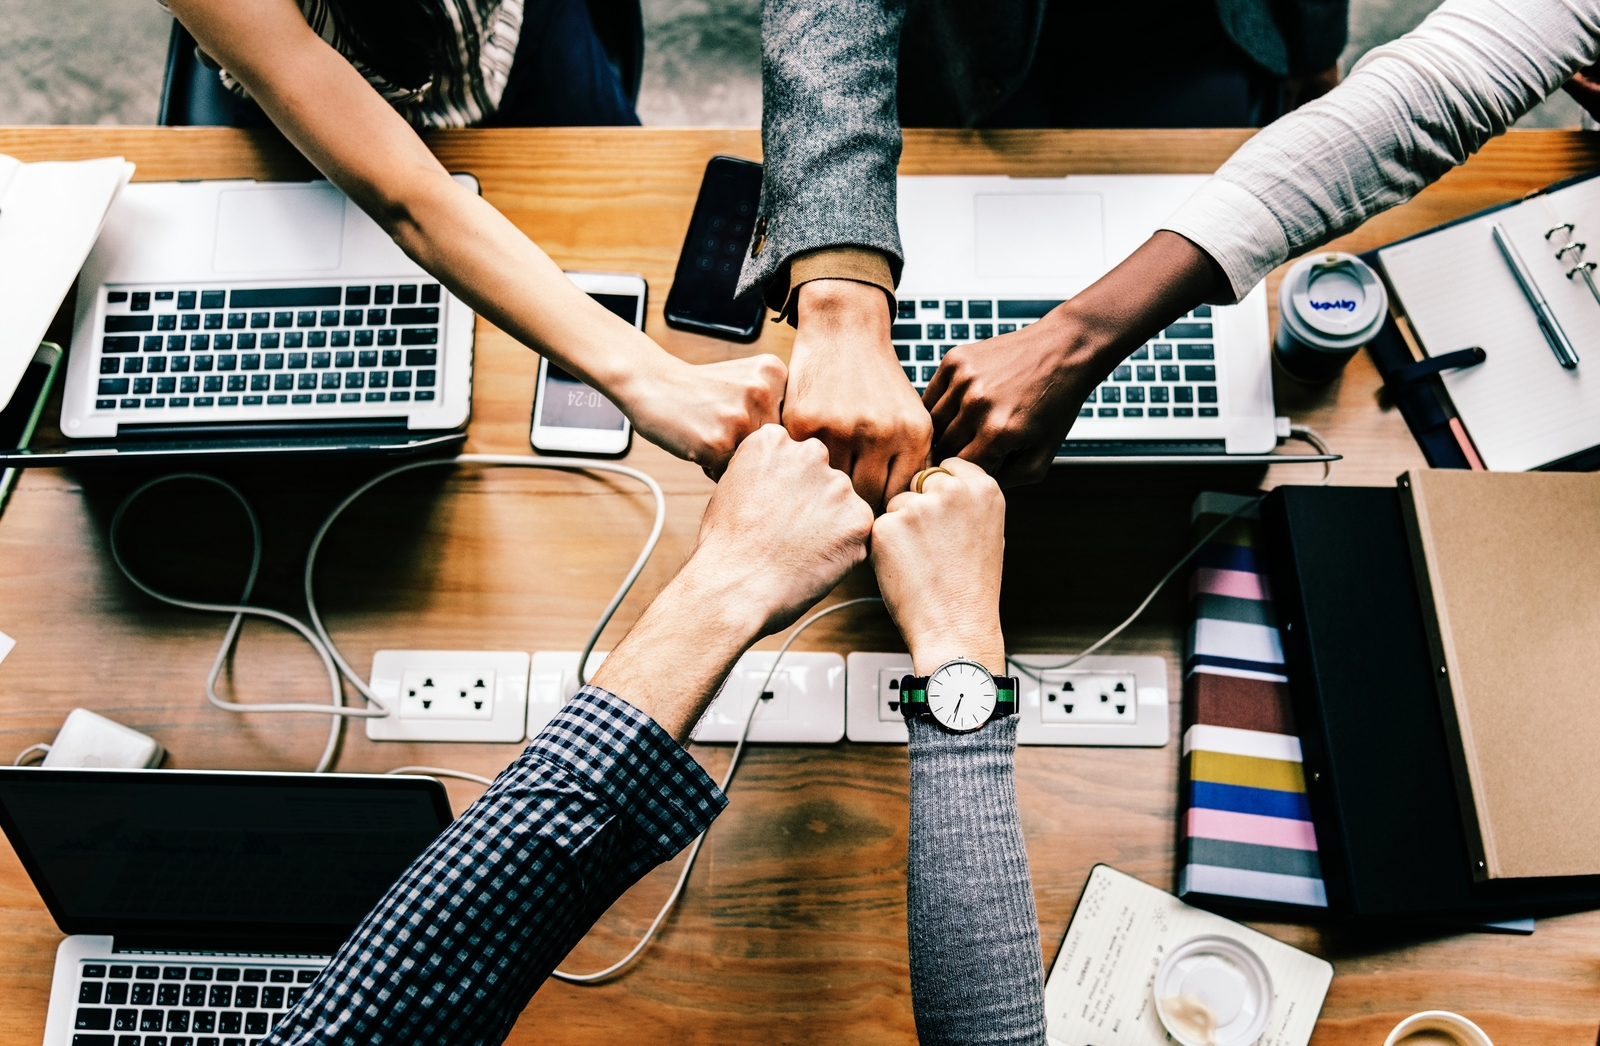
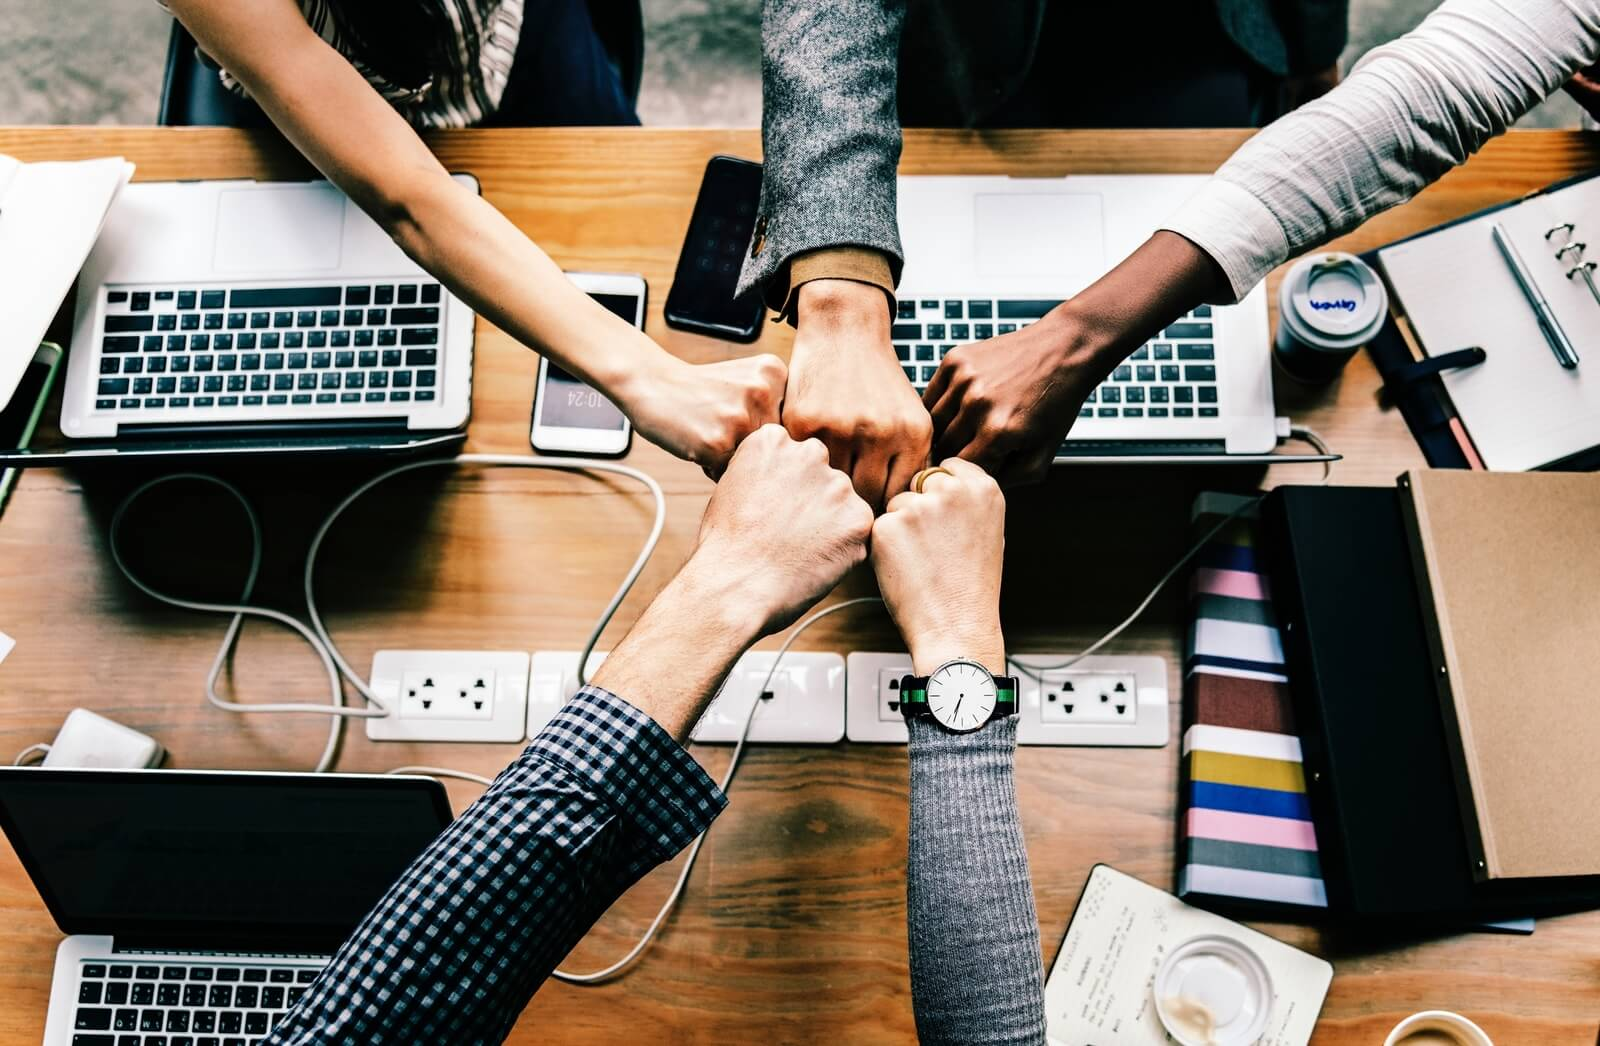
speed optimised images

Changed region(s): [[0.5, 0.1224, 0.5312, 0.2447], [0.5, 0.0, 0.5312, 0.0612]]

diff --git a/index.html b/index.html
@@ -330,7 +330,7 @@
                             <div class="row">
                                 <div class="col-lg-12">
                                     <div class="row">
-                                        <div class="col-md-3 col-sm-6 ">
+                                        <div class="col-md-4 col-sm-4 col-lg-4">
                                             <div class="card card-member">
                                                 <div class="content">
                                                     <div
@@ -358,7 +358,7 @@
                                                 </div>
                                             </div>
                                         </div>
-                                        <div class="col-md-3 col-sm-6">
+                                        <div class="col-md-4 col-sm-4 col-lg-4">
                                             <div class="card card-member">
                                                 <div class="content">
                                                     <div
@@ -386,7 +386,7 @@
                                                 </div>
                                             </div>
                                         </div>
-                                        <div class="col-md-3 col-sm-6">
+                                        <div class="col-md-4 col-sm-4 col-lg-4">
                                             <div class="card card-member">
                                                 <div class="content">
                                                     <div
@@ -414,7 +414,7 @@
                                                 </div>
                                             </div>
                                         </div>
-                                        <div class="col-md-3 col-sm-6">
+                                        <div class="col-md-4 col-sm-4 col-lg-4">
                                             <div class="card card-member">
                                                 <div class="content">
                                                     <div
@@ -442,7 +442,7 @@
                                                 </div>
                                             </div>
                                         </div>
-                                        <div class="col-md-3 col-sm-6">
+                                        <div class="col-md-4 col-sm-4 col-lg-4">
                                             <div class="card card-member  ">
                                                 <div class="content">
                                                     <div
@@ -470,7 +470,7 @@
                                                 </div>
                                             </div>
                                         </div>
-                                        <div class="col-md-3 col-sm-6">
+                                        <div class="col-md-4 col-sm-4 col-lg-4">
                                             <div class="card card-member  ">
                                                 <div class="content">
                                                     <div
